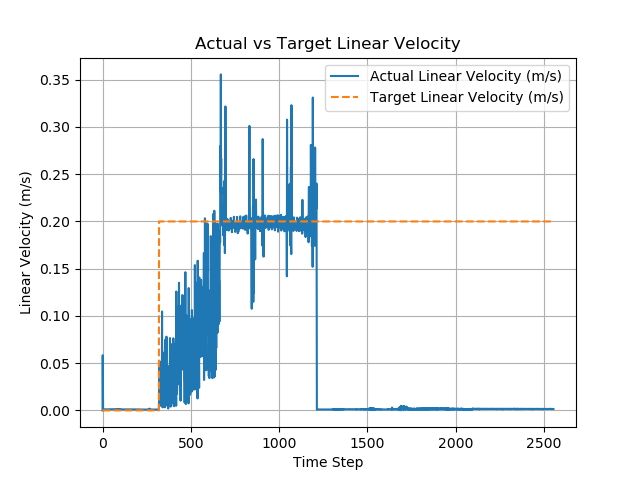
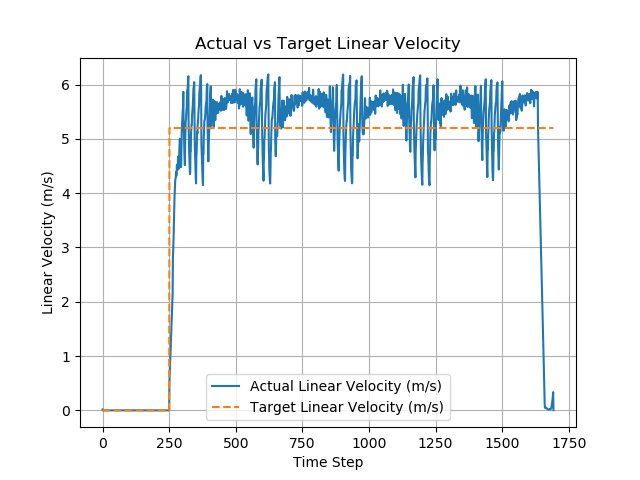
implemeent gps mapping

diff --git a/src/amiga_sim/scripts/twist_to_wheels.py b/src/amiga_sim/scripts/twist_to_wheels.py
@@ -6,8 +6,9 @@ from std_msgs.msg import Float64
 from sensor_msgs.msg import JointState
 from geometry_msgs.msg import TwistStamped
 from gazebo_msgs.msg import ModelStates
+from sensor_msgs.msg import NavSatFix
 import matplotlib.pyplot as plt
-import atexit
+import math
 
 class TwistToWheelController:
     def __init__(self):
@@ -28,6 +29,16 @@ class TwistToWheelController:
             "br": rospy.Publisher('/br_wheel_joint_velocity_controller/command', Float64, queue_size=1),
             "fr": rospy.Publisher('/fr_wheel_joint_velocity_controller/command', Float64, queue_size=1),
         }
+
+        # Publisher for simulated GPS data
+        self.gps_pub = rospy.Publisher('/gps/pvt', NavSatFix, queue_size=1)
+
+        # GPS origin (flat Earth approximation)
+        # GPS simulation origin
+        self.lat0 = 40.0     # degrees north (e.g., Nebraska or Kansas)
+        self.lon0 = -93.0    # central meridian of Zone 15N
+        self.alt0 = 300.0    # elevation in meters (reasonable ground level)
+        self.earth_radius = 6378137.0  # meters
 
         # Storage for latest command velocities
         self.commanded_velocities = {
@@ -68,8 +79,28 @@ class TwistToWheelController:
         if self.model_name in msg.name:
             index = msg.name.index(self.model_name)
             twist = msg.twist[index]
+            pose = msg.pose[index]
+
             self.latest_gazebo_linear = (twist.linear.x ** 2 + twist.linear.y ** 2) ** 0.5
             self.latest_gazebo_angular = twist.angular.z
+
+            # Simulated GPS publishing
+            x = pose.position.x
+            y = pose.position.y
+            z = pose.position.z
+
+            d_lat = (y / self.earth_radius) * (180.0 / math.pi)
+            d_lon = (x / (self.earth_radius * math.cos(self.lat0 * math.pi / 180.0))) * (180.0 / math.pi)
+
+            gps_msg = NavSatFix()
+            gps_msg.header.stamp = rospy.Time.now()
+            gps_msg.header.frame_id = "gps_link"
+            gps_msg.latitude = self.lat0 + d_lat
+            gps_msg.longitude = self.lon0 + d_lon
+            gps_msg.altitude = self.alt0 + z
+            gps_msg.position_covariance_type = NavSatFix.COVARIANCE_TYPE_UNKNOWN
+
+            self.gps_pub.publish(gps_msg)
 
     def boost_power(self, x):
         max_cap = 2.5

diff --git a/src/amiga_sim/scripts/straight_test.py b/src/amiga_sim/scripts/straight_test.py
@@ -12,8 +12,8 @@ def main():
         msg = TwistStamped()
         msg.header.stamp = rospy.Time.now()
         msg.header.frame_id = "robot"
-        msg.twist.linear.x = 0.2   # Forward speed in m/s
-        msg.twist.angular.z = 0.0  # No rotation (straight)
+        msg.twist.linear.x = 5.2   # Forward speed in m/s
+        msg.twist.angular.z = 2.0  # No rotation (straight)
 
         pub.publish(msg)
         rate.sleep()
